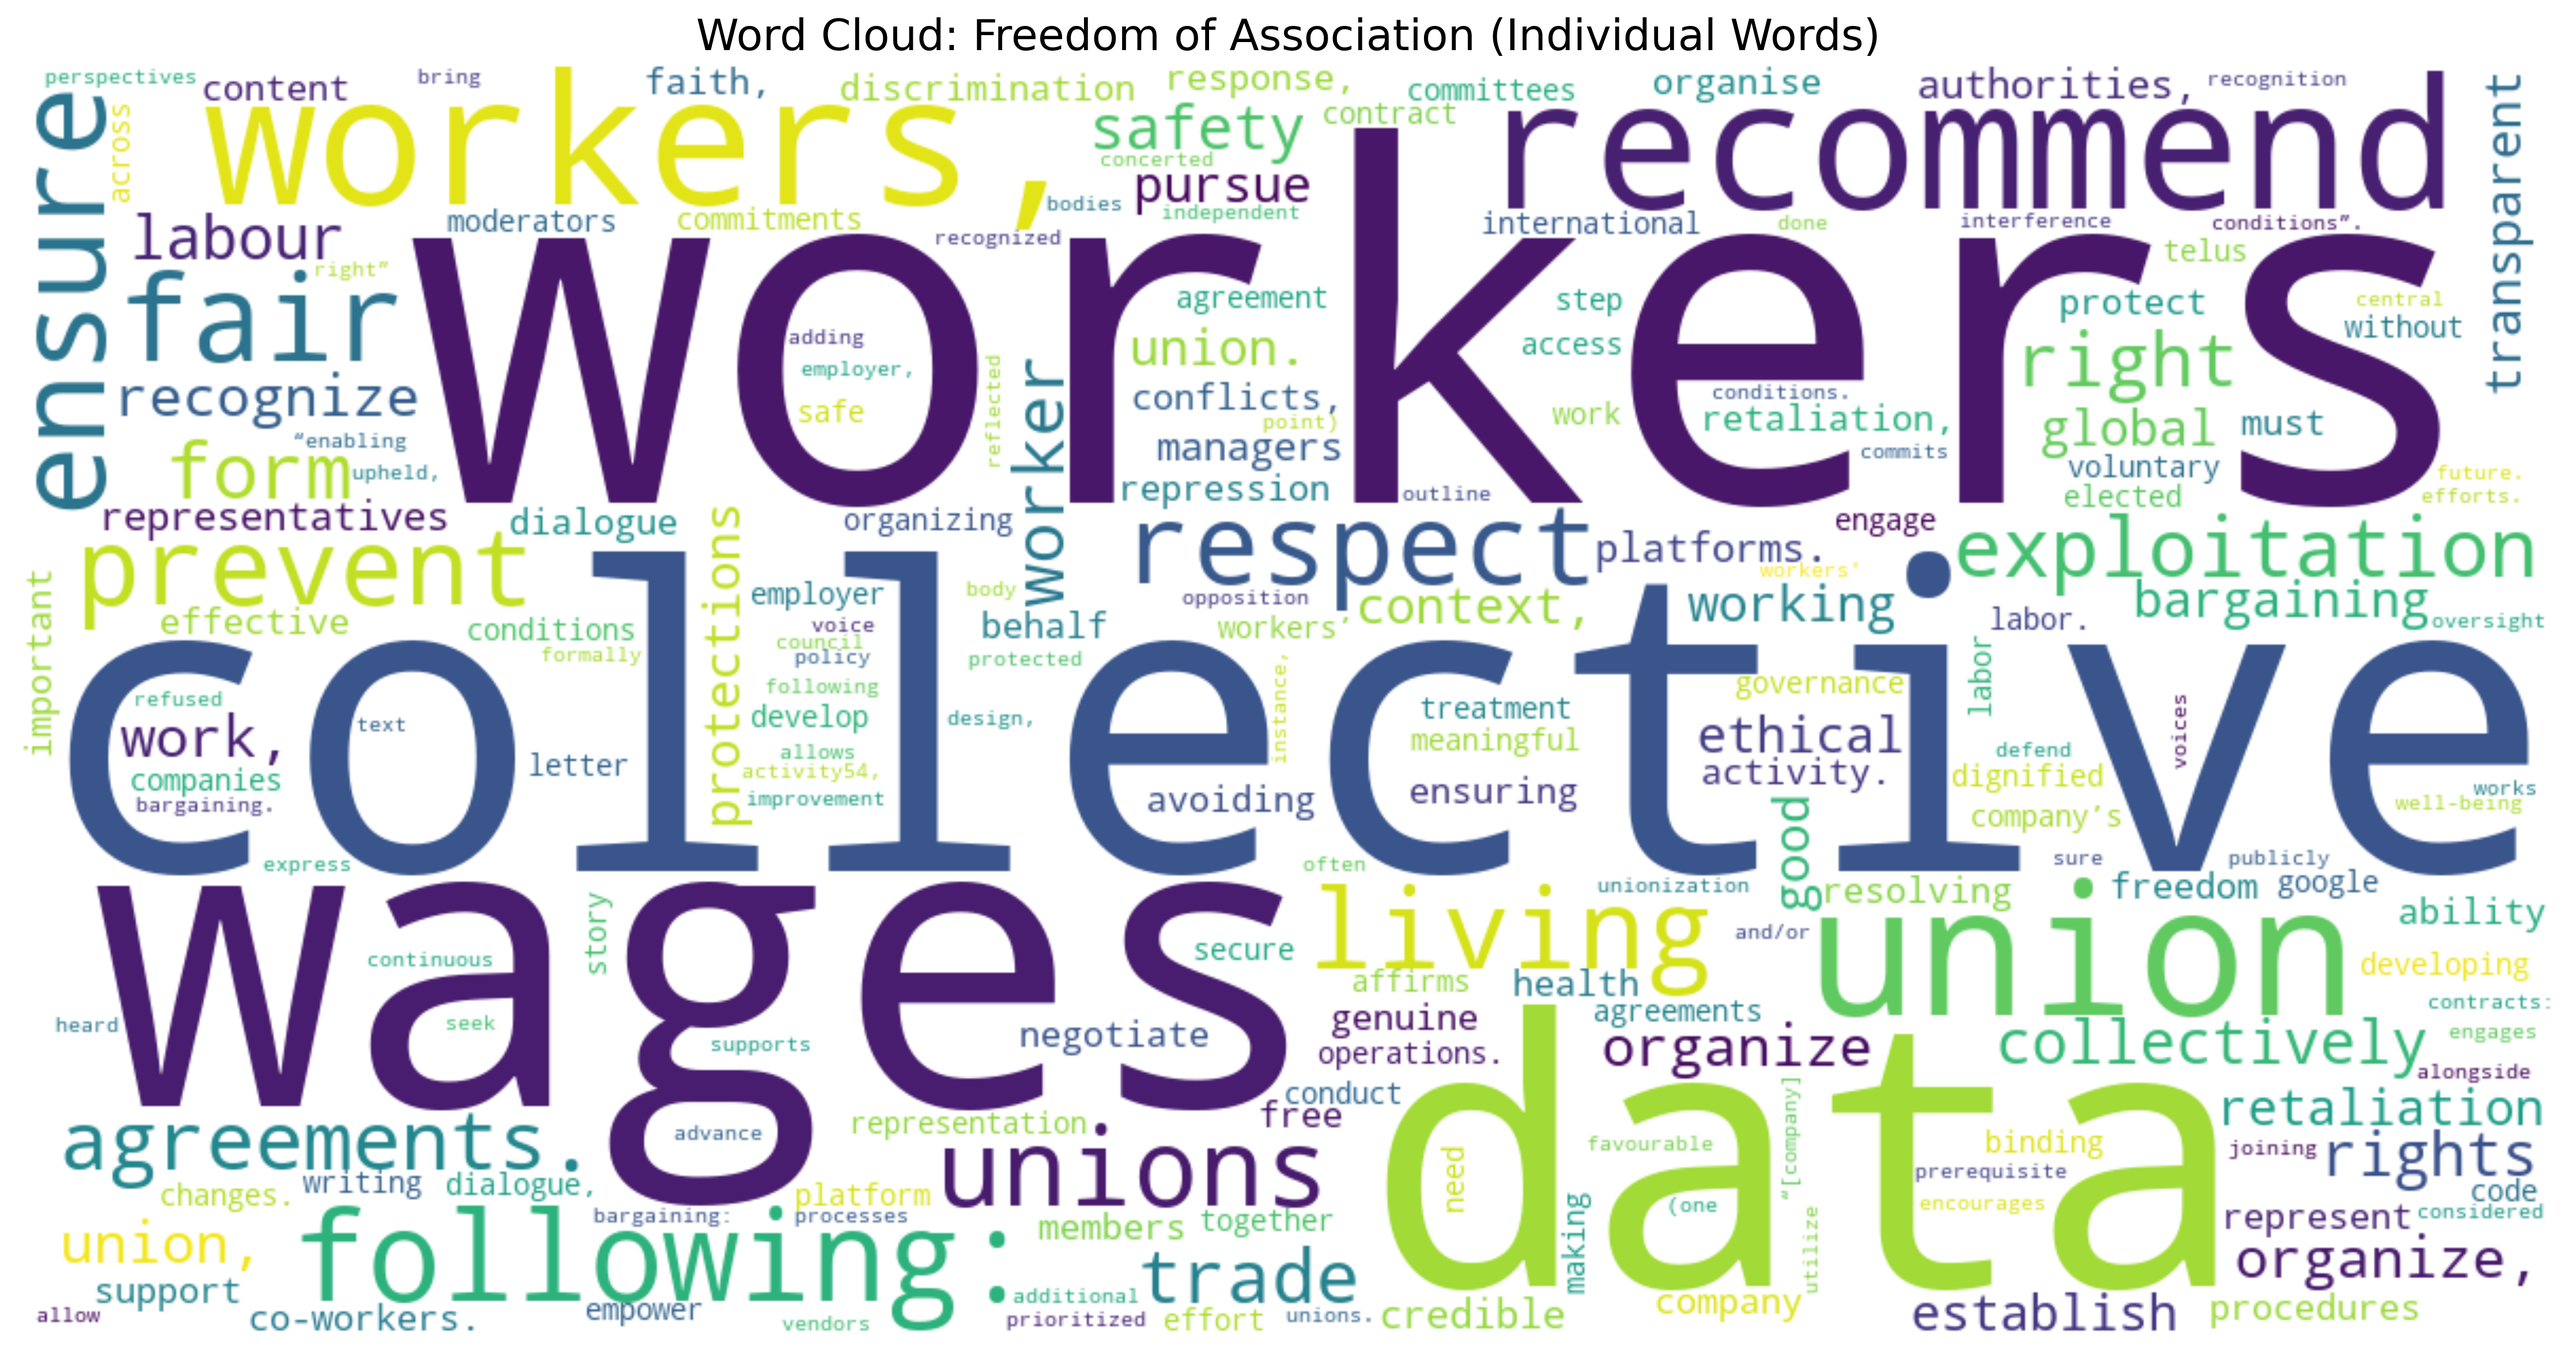
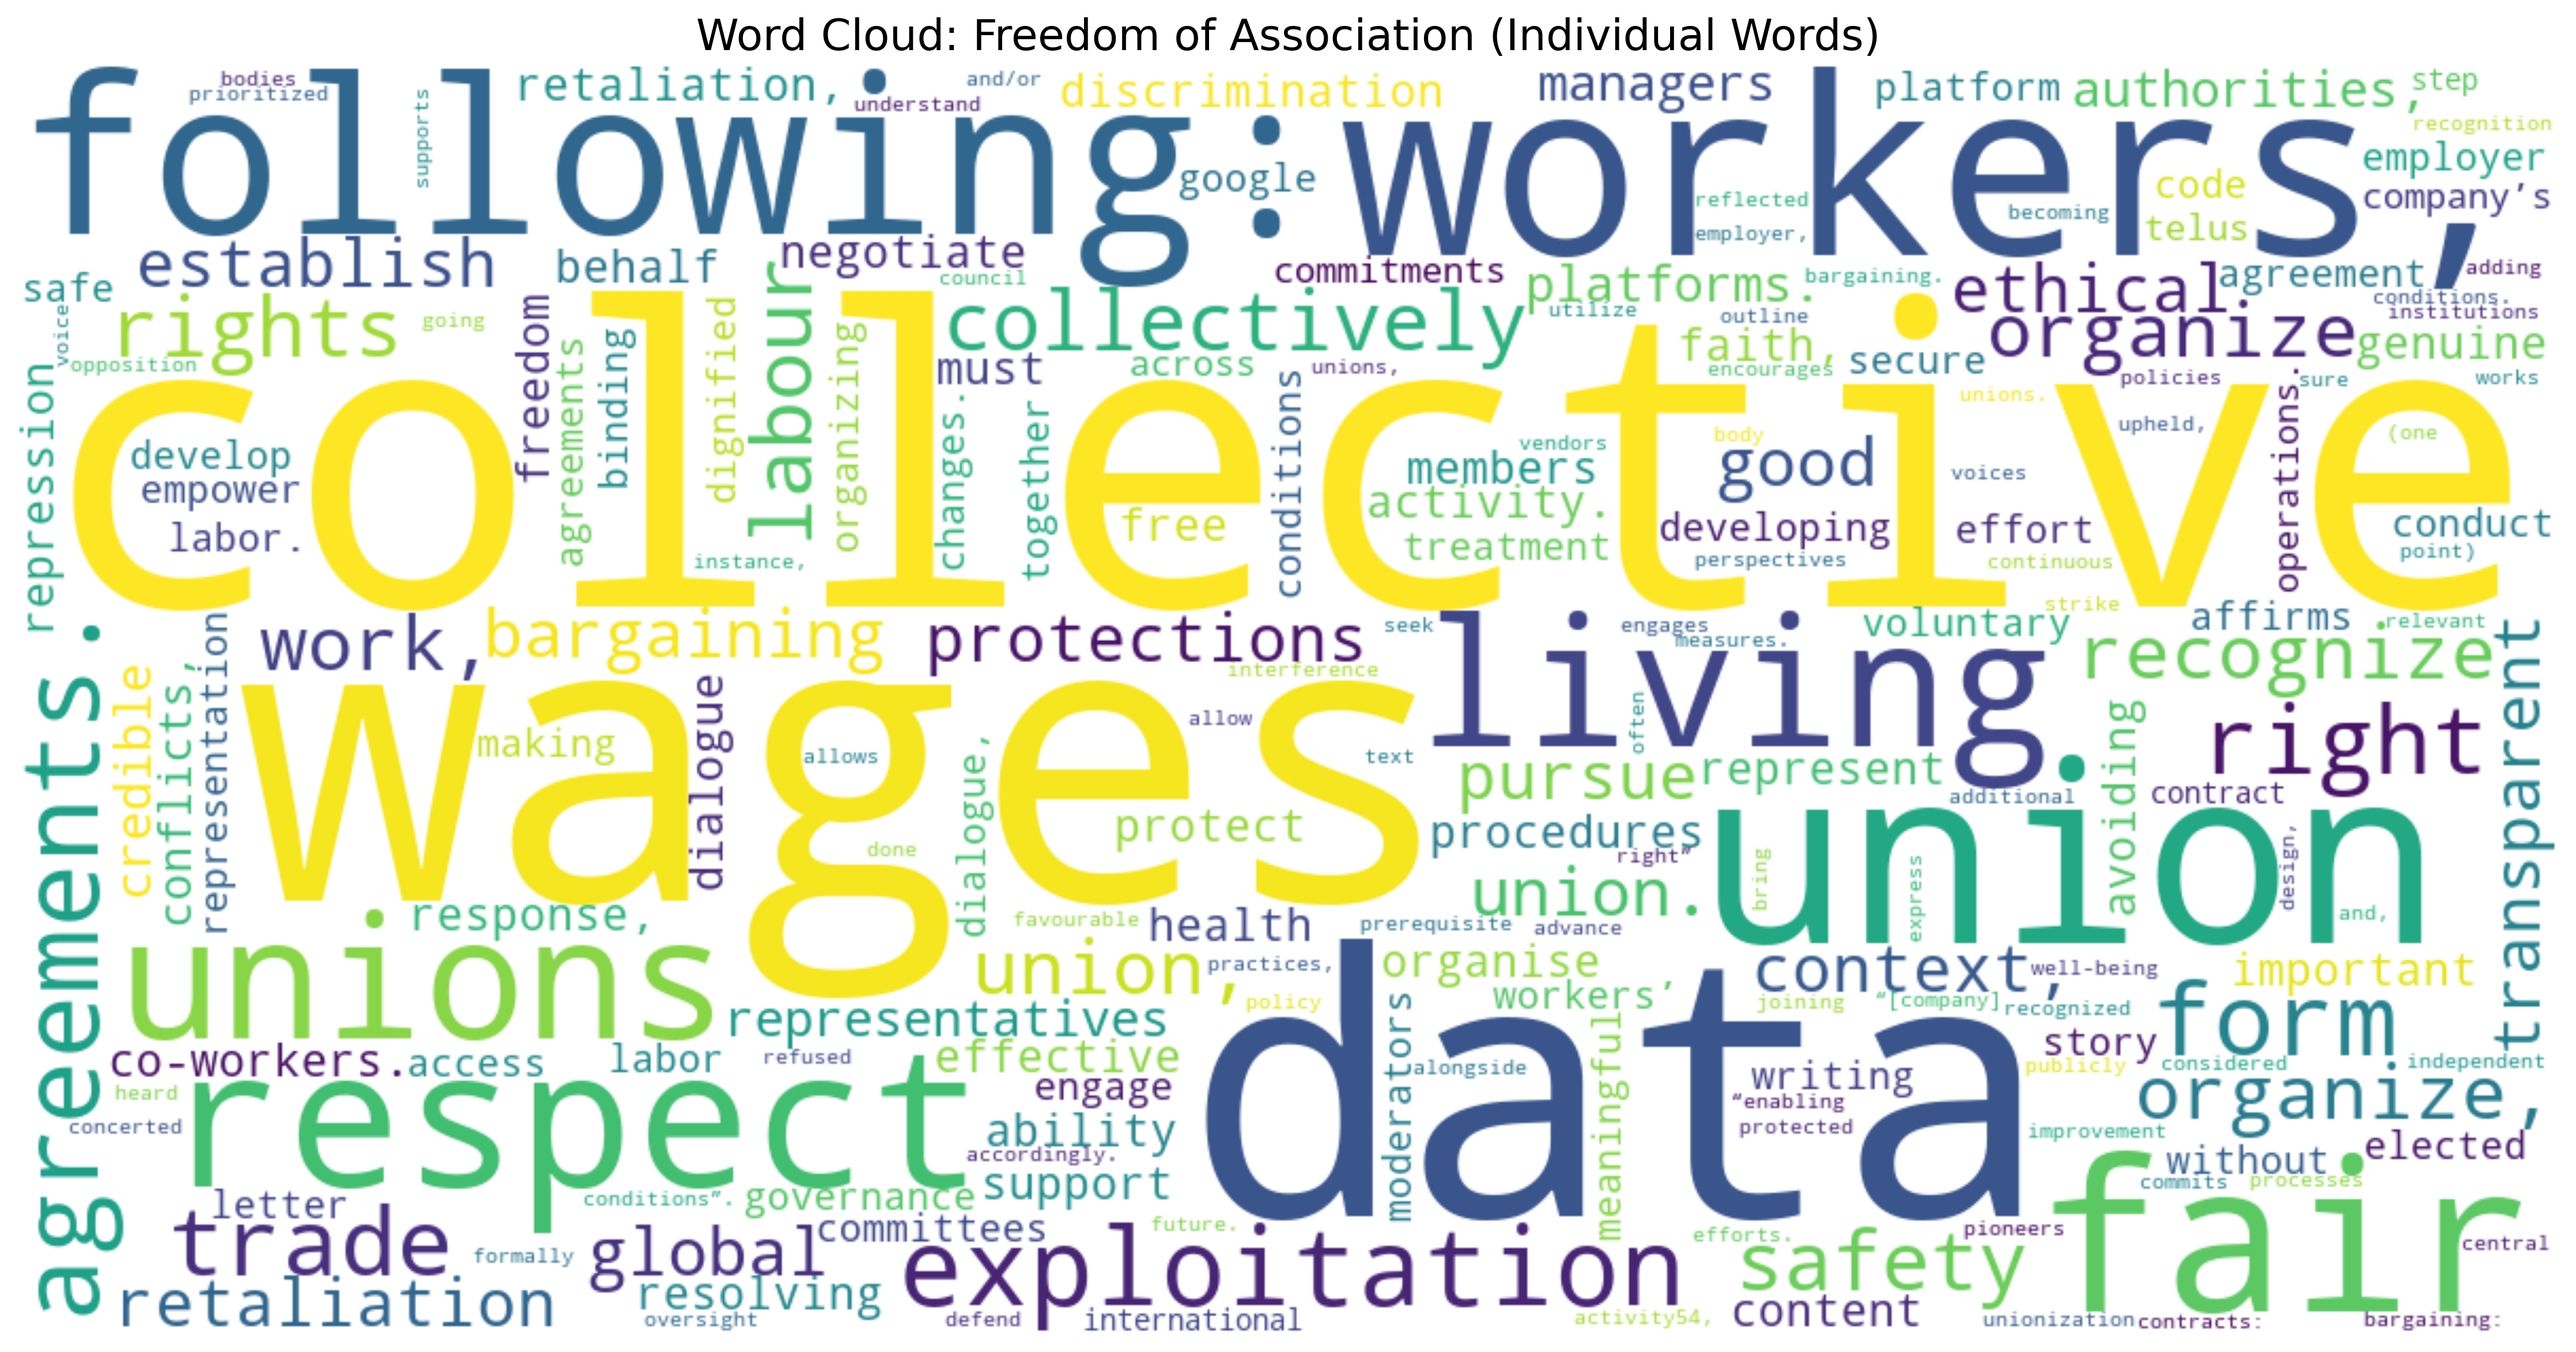
added custom stopwords for word clouds

diff --git a/analysis.py b/analysis.py
@@ -533,11 +533,18 @@ plt.show()
 params = {
     'Freedom of Association': melted[melted['parameter'] == 'Freedom of association and fair representation (democratically determined working conditions, worker voice mechanisms)'],
     'Health and Safety': melted[melted['parameter'] == 'Health and safety risks'],
-    'Wages': melted[melted['parameter'] == 'Wages']
+    'Wages': melted[melted['parameter'] == 'Wages'],
+    'Flexibility': melted[melted['parameter'] == 'Right to set working hours/schedule'],
 }
 
-# Create combined stopwords set
-stop_words = set(STOPWORDS) | set(nltk_stopwords.words('english'))
+# Create combined stopwords set, plus add custom stopwords
+custom_stopwords = {
+    'worker', 'workers', "workers'",'work', 'working', 'company', 'companies', 'need',
+    'practices','regardless','except','following','ensure','prevent','recommend','recommends','ensuring',
+    'include','including','conducting','means','things'
+}
+
+stop_words = set(STOPWORDS) | set(nltk_stopwords.words('english')) | custom_stopwords
 
 for param_name, param_data in params.items():
     print(f"\n{'='*60}")
